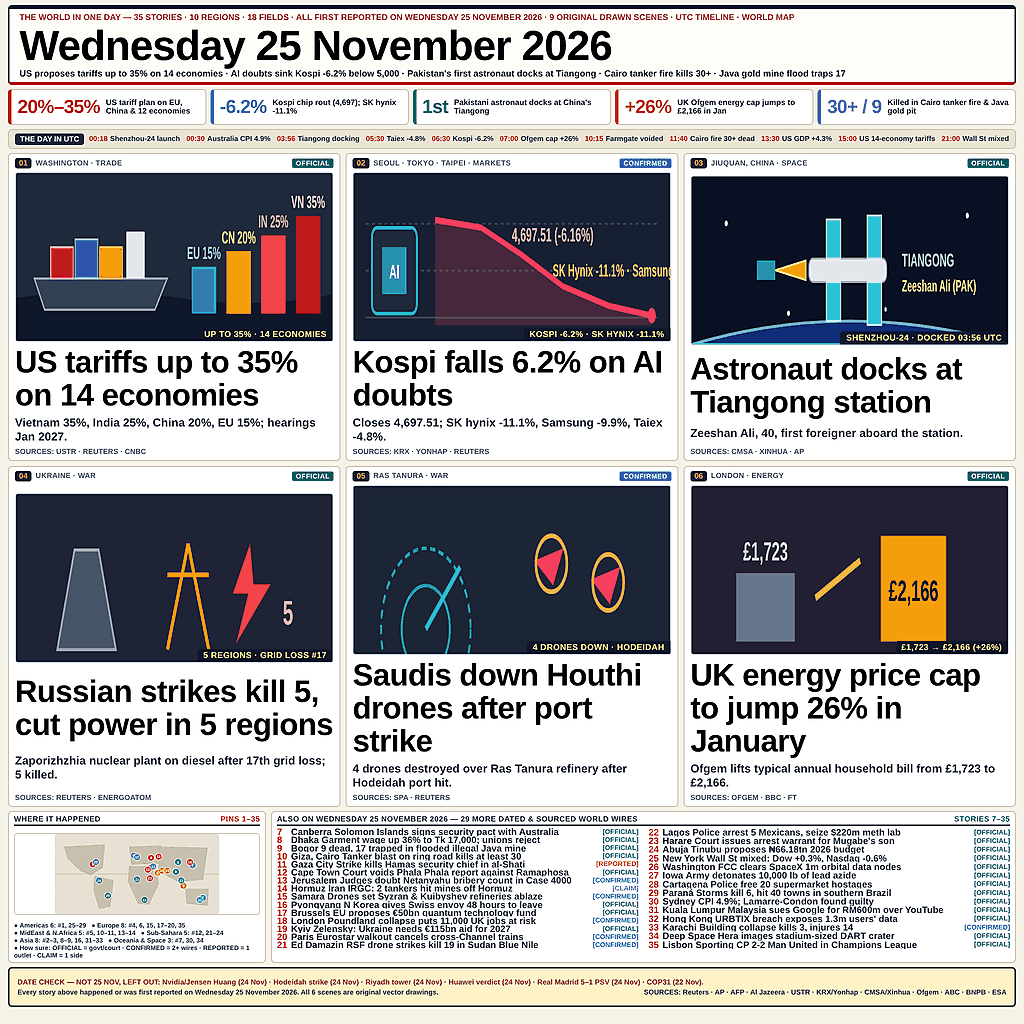
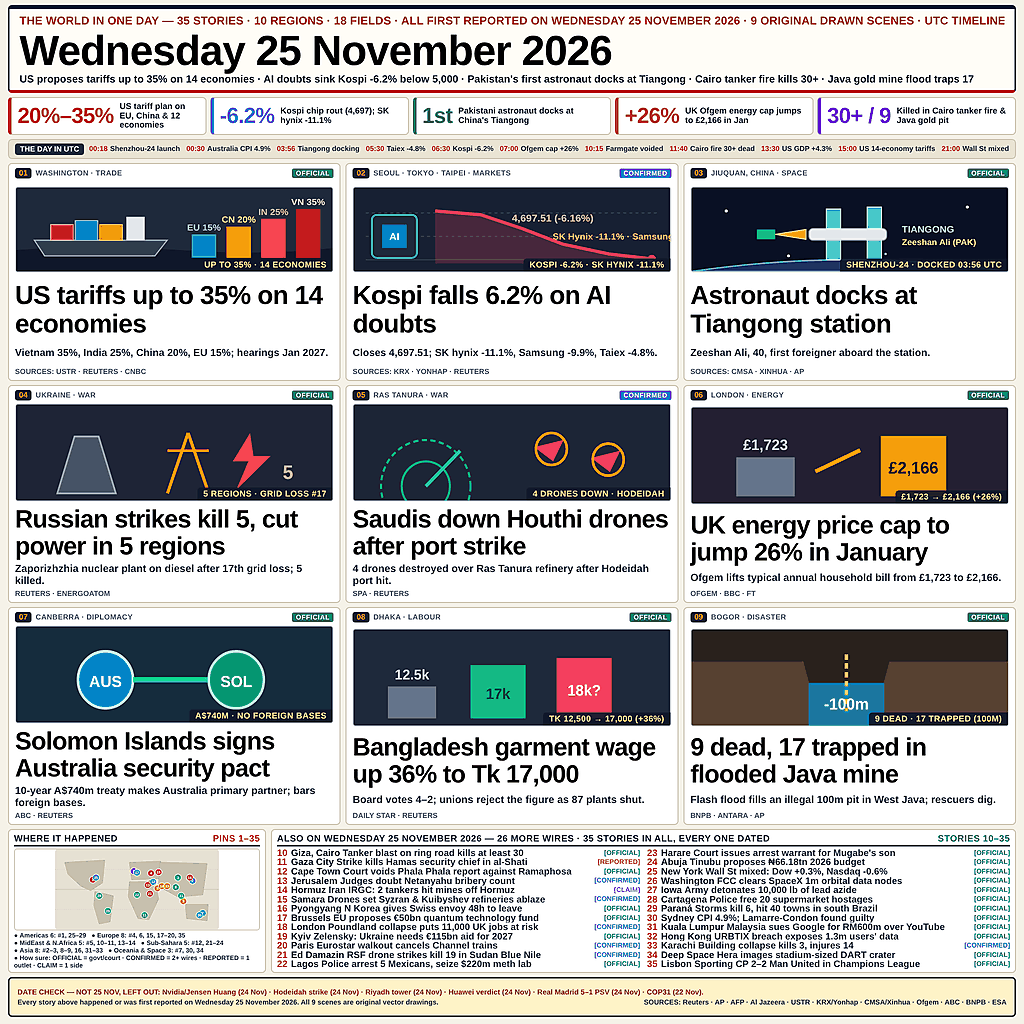
feat(news-20261125): v6 layout with legible breadth band and self-consistent counts (9 cards, 26 wires, 10-35)

diff --git a/main.py b/main.py
@@ -79,7 +79,7 @@ LEAD_STORIES = [
     },
 ]
 
-LEAD_STORIES += [
+MID_ROW_1 = [
     {
         "num": 4,
         "loc": "UKRAINE · WAR",
@@ -115,45 +115,73 @@ LEAD_STORIES += [
     },
 ]
 
-MID_ROW_1 = []
-MID_ROW_2 = []
+MID_ROW_2 = [
+    {
+        "num": 7,
+        "loc": "CANBERRA · DIPLOMACY",
+        "tag": "OFFICIAL",
+        "tag_col": "#047857",
+        "banner": "A$740M · NO FOREIGN BASES",
+        "title": "Solomon Islands signs Australia security pact",
+        "body": "10-year A$740m treaty makes Australia primary partner; bars foreign bases.",
+        "src": "ABC · Reuters",
+        "svg": "treaty",
+    },
+    {
+        "num": 8,
+        "loc": "DHAKA · LABOUR",
+        "tag": "OFFICIAL",
+        "tag_col": "#047857",
+        "banner": "TK 12,500 → 17,000 (+36%)",
+        "title": "Bangladesh garment wage up 36% to Tk 17,000",
+        "body": "Board votes 4–2; unions reject the figure as 87 plants shut.",
+        "src": "Daily Star · Reuters",
+        "svg": "garment",
+    },
+    {
+        "num": 9,
+        "loc": "BOGOR · DISASTER",
+        "tag": "OFFICIAL",
+        "tag_col": "#047857",
+        "banner": "9 DEAD · 17 TRAPPED (100M)",
+        "title": "9 dead, 17 trapped in flooded Java mine",
+        "body": "Flash flood fills an illegal 100m pit in West Java; rescuers dig.",
+        "src": "BNPB · Antara · AP",
+        "svg": "mine",
+    },
+]
 
 BRIEFS_COL_1 = [
-    (7,  "Canberra", "Solomon Islands signs security pact with Australia", "OFFICIAL"),
-    (8,  "Dhaka", "Garment wage up 36% to Tk 17,000; unions reject", "OFFICIAL"),
-    (9,  "Bogor", "9 dead, 17 trapped in flooded illegal Java mine", "OFFICIAL"),
     (10, "Giza, Cairo", "Tanker blast on ring road kills at least 30", "OFFICIAL"),
     (11, "Gaza City", "Strike kills Hamas security chief in al-Shati", "REPORTED"),
     (12, "Cape Town", "Court voids Phala Phala report against Ramaphosa", "OFFICIAL"),
-    (13, "Jerusalem", "Judges doubt Netanyahu bribery count in Case 4000", "CONFIRMED"),
+    (13, "Jerusalem", "Judges doubt Netanyahu bribery count", "CONFIRMED"),
     (14, "Hormuz", "Iran IRGC: 2 tankers hit mines off Hormuz", "CLAIM"),
     (15, "Samara", "Drones set Syzran & Kuibyshev refineries ablaze", "CONFIRMED"),
-    (16, "Pyongyang", "N Korea gives Swiss envoy 48 hours to leave", "OFFICIAL"),
+    (16, "Pyongyang", "N Korea gives Swiss envoy 48h to leave", "OFFICIAL"),
     (17, "Brussels", "EU proposes €50bn quantum technology fund", "OFFICIAL"),
     (18, "London", "Poundland collapse puts 11,000 UK jobs at risk", "CONFIRMED"),
     (19, "Kyiv", "Zelensky: Ukraine needs €115bn aid for 2027", "OFFICIAL"),
-    (20, "Paris", "Eurostar walkout cancels cross-Channel trains", "CONFIRMED"),
+    (20, "Paris", "Eurostar walkout cancels Channel trains", "CONFIRMED"),
     (21, "Ed Damazin", "RSF drone strikes kill 19 in Sudan Blue Nile", "CONFIRMED"),
+    (22, "Lagos", "Police arrest 5 Mexicans, seize $220m meth lab", "OFFICIAL"),
 ]
 
 BRIEFS_COL_2 = [
-    (22, "Lagos", "Police arrest 5 Mexicans, seize $220m meth lab", "OFFICIAL"),
     (23, "Harare", "Court issues arrest warrant for Mugabe's son", "OFFICIAL"),
     (24, "Abuja", "Tinubu proposes ₦66.18tn 2026 budget", "OFFICIAL"),
     (25, "New York", "Wall St mixed: Dow +0.3%, Nasdaq -0.6%", "OFFICIAL"),
     (26, "Washington", "FCC clears SpaceX 1m orbital data nodes", "OFFICIAL"),
     (27, "Iowa", "Army detonates 10,000 lb of lead azide", "OFFICIAL"),
     (28, "Cartagena", "Police free 20 supermarket hostages", "OFFICIAL"),
-    (29, "Paraná", "Storms kill 6, hit 40 towns in southern Brazil", "OFFICIAL"),
+    (29, "Paraná", "Storms kill 6, hit 40 towns in south Brazil", "OFFICIAL"),
     (30, "Sydney", "CPI 4.9%; Lamarre-Condon found guilty", "OFFICIAL"),
     (31, "Kuala Lumpur", "Malaysia sues Google for RM600m over YouTube", "OFFICIAL"),
     (32, "Hong Kong", "URBTIX breach exposes 1.3m users' data", "OFFICIAL"),
     (33, "Karachi", "Building collapse kills 3, injures 14", "CONFIRMED"),
     (34, "Deep Space", "Hera images stadium-sized DART crater", "OFFICIAL"),
-    (35, "Lisbon", "Sporting CP 2-2 Man United in Champions League", "OFFICIAL"),
+    (35, "Lisbon", "Sporting CP 2–2 Man United in Champions League", "OFFICIAL"),
 ]
-
-BRIEFS_COL_3 = []
 
 
 def svg_scene(kind: str, banner: str) -> str:
@@ -451,7 +479,7 @@ def build_broadsheet_html() -> str:
   .page {{
     width: 1024px; height: 1024px; padding: 5px 8px;
     display: grid;
-    grid-template-rows: 80px 36px 20px 654px 152px 40px;
+    grid-template-rows: 88px 38px 20px 218px 218px 218px 144px 40px;
     gap: 4px;
   }}
   /* MASTHEAD */
@@ -461,7 +489,7 @@ def build_broadsheet_html() -> str:
     border: 1.5px solid #141d33; border-top: 4px solid #141d33; border-bottom: 3px solid #b91c1c; overflow: hidden;
   }}
   .mast-line1 {{
-    font-size: 8.4px; font-weight: 900; letter-spacing: 0; color: #991b1b;
+    font-size: 11.4px; font-weight: 900; letter-spacing: 0.1px; color: #991b1b;
     white-space: nowrap; overflow: hidden;
   }}
   .mast-date {{
@@ -470,7 +498,7 @@ def build_broadsheet_html() -> str:
     white-space: nowrap; margin: 2px 0;
   }}
   .mast-line3 {{
-    font-size: 9.0px; color: #0f172a; font-weight: 900;
+    font-size: 10.4px; color: #0f172a; font-weight: 900;
     white-space: nowrap; overflow: hidden;
   }}
 
@@ -482,8 +510,8 @@ def build_broadsheet_html() -> str:
     background: #ffffff; border: 1px solid #cfc7b4; border-radius: 4px;
     padding: 2px 6px; display: flex; align-items: center; gap: 6px;
   }}
-  .stat-val {{ font-size: 19px; font-weight: 900; line-height: 1; white-space: nowrap; letter-spacing: -0.6px; }}
-  .stat-lbl {{ font-size: 7.9px; line-height: 1.1; color: #0f172a; font-weight: 800; }}
+  .stat-val {{ font-size: 22px; font-weight: 900; line-height: 1; white-space: nowrap; letter-spacing: -0.6px; }}
+  .stat-lbl {{ font-size: 8.5px; line-height: 1.1; color: #0f172a; font-weight: 800; }}
 
   /* UTC TIMELINE */
   .utc-bar {{
@@ -527,7 +555,7 @@ def build_broadsheet_html() -> str:
     position: relative; width: 100%; border-radius: 3px; overflow: hidden;
     border: 1px solid #cbd5e1; margin-bottom: 2px; flex-shrink: 0;
   }}
-  .lead-card .scene-svg {{ width: 100%; height: 168px; display: block; }}
+  .lead-card .scene-svg {{ width: 100%; height: 84px; display: block; }}
   .mid-card .scene-svg {{ width: 100%; height: 96px; display: block; }}
   .scene-banner {{
     position: absolute; bottom: 0; right: 0;
@@ -537,11 +565,11 @@ def build_broadsheet_html() -> str:
   }}
   .lead-title {{
     font-family: 'Liberation Sans', -apple-system, sans-serif;
-    font-size: 31px; font-weight: 900; line-height: 1.07; color: #000000; margin-bottom: 2px;
+    font-size: 26px; font-weight: 900; line-height: 1.1; color: #000000; margin-bottom: 2px;
     letter-spacing: -0.5px;
   }}
   .lead-body {{
-    font-size: 11.6px; line-height: 1.2; color: #1e293b; font-weight: 700; margin-bottom: 2px;
+    font-size: 10.2px; line-height: 1.2; color: #1e293b; font-weight: 700; margin-bottom: 2px;
   }}
   .card-src {{
     font-size: 7.4px; font-weight: 800; color: #475569; text-transform: uppercase;
@@ -570,7 +598,7 @@ def build_broadsheet_html() -> str:
     min-width: 0; min-height: 0; overflow: hidden;
   }}
   .box-head {{
-    font-size: 7.6px; font-weight: 900; color: #141d33; text-transform: uppercase;
+    font-size: 9.2px; font-weight: 900; color: #141d33; text-transform: uppercase;
     letter-spacing: 0.3px; border-bottom: 1.5px solid #141d33; padding-bottom: 1px; margin-bottom: 2px;
     display: flex; justify-content: space-between; align-items: center; flex-shrink: 0;
   }}
@@ -579,13 +607,13 @@ def build_broadsheet_html() -> str:
     font-size: 6.4px; line-height: 1.18; color: #1e293b; font-weight: 700; margin-top: 1px;
   }}
   .wires-cols {{
-    display: grid; grid-template-columns: 1fr 1fr; gap: 10px; flex: 1; min-height: 0; min-width: 0; overflow: hidden;
+    display: grid; grid-template-columns: 1fr 1fr; gap: 7px; flex: 1; min-height: 0; min-width: 0; overflow: hidden;
   }}
   .brief-col {{
     display: flex; flex-direction: column; justify-content: space-between; min-width: 0; min-height: 0; overflow: hidden;
   }}
   .brief-row {{
-    font-size: 9.3px; line-height: 1.05; height: 10.1px; color: #0f172a;
+    font-size: 9.4px; line-height: 1.1; height: 10.2px; color: #0f172a;
     white-space: nowrap; overflow: hidden;
     display: flex; align-items: center; justify-content: space-between;
   }}
@@ -630,6 +658,10 @@ def build_broadsheet_html() -> str:
 
   <div class="lead-grid">{''.join(lead_cards)}</div>
 
+  <div class="mid-grid">{render_mid_row(MID_ROW_1)}</div>
+
+  <div class="mid-grid">{render_mid_row(MID_ROW_2)}</div>
+
   <div class="bottom-grid">
     <div class="map-box">
       <div class="box-head">
@@ -647,13 +679,12 @@ def build_broadsheet_html() -> str:
 
     <div class="wires-box">
       <div class="box-head">
-        <span>ALSO ON WEDNESDAY 25 NOVEMBER 2026 — 29 MORE DATED &amp; SOURCED WORLD WIRES</span>
-        <span style="color:#047857">STORIES 7–35</span>
+        <span>ALSO ON WEDNESDAY 25 NOVEMBER 2026 — 26 MORE WIRES · 35 STORIES IN ALL, EVERY ONE DATED</span>
+        <span style="color:#047857">STORIES 10–35</span>
       </div>
       <div class="wires-cols">
         <div class="brief-col">{render_briefs(BRIEFS_COL_1)}</div>
         <div class="brief-col">{render_briefs(BRIEFS_COL_2)}</div>
-        <div class="brief-col">{render_briefs(BRIEFS_COL_3)}</div>
       </div>
     </div>
   </div>
@@ -664,7 +695,7 @@ def build_broadsheet_html() -> str:
       Nvidia/Jensen Huang (24 Nov) · Hodeidah strike (24 Nov) · Riyadh tower (24 Nov) · Huawei verdict (24 Nov) · Real Madrid 5–1 PSV (24 Nov) · COP31 (22 Nov).
     </div>
     <div class="dc-line2">
-      <span>Every story above happened or was first reported on Wednesday 25 November 2026. All 6 scenes are original vector drawings.</span>
+      <span>Every story above happened or was first reported on Wednesday 25 November 2026. All 9 scenes are original vector drawings.</span>
       <span><b>SOURCES:</b> Reuters · AP · AFP · Al Jazeera · USTR · KRX/Yonhap · CMSA/Xinhua · Ofgem · ABC · BNPB · ESA</span>
     </div>
   </div>
